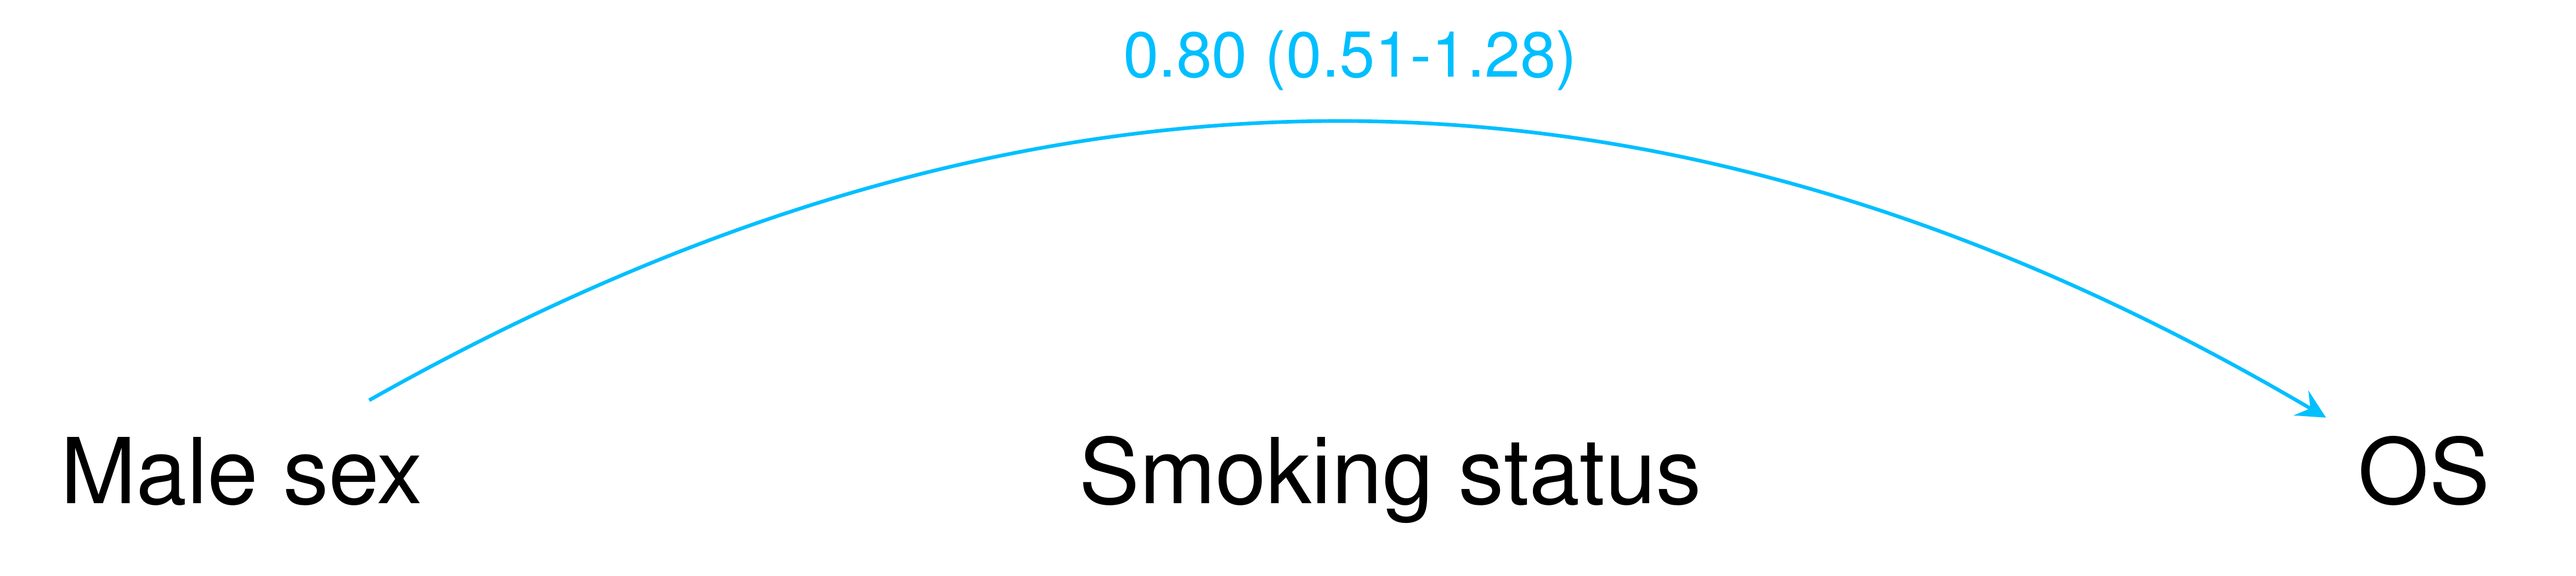
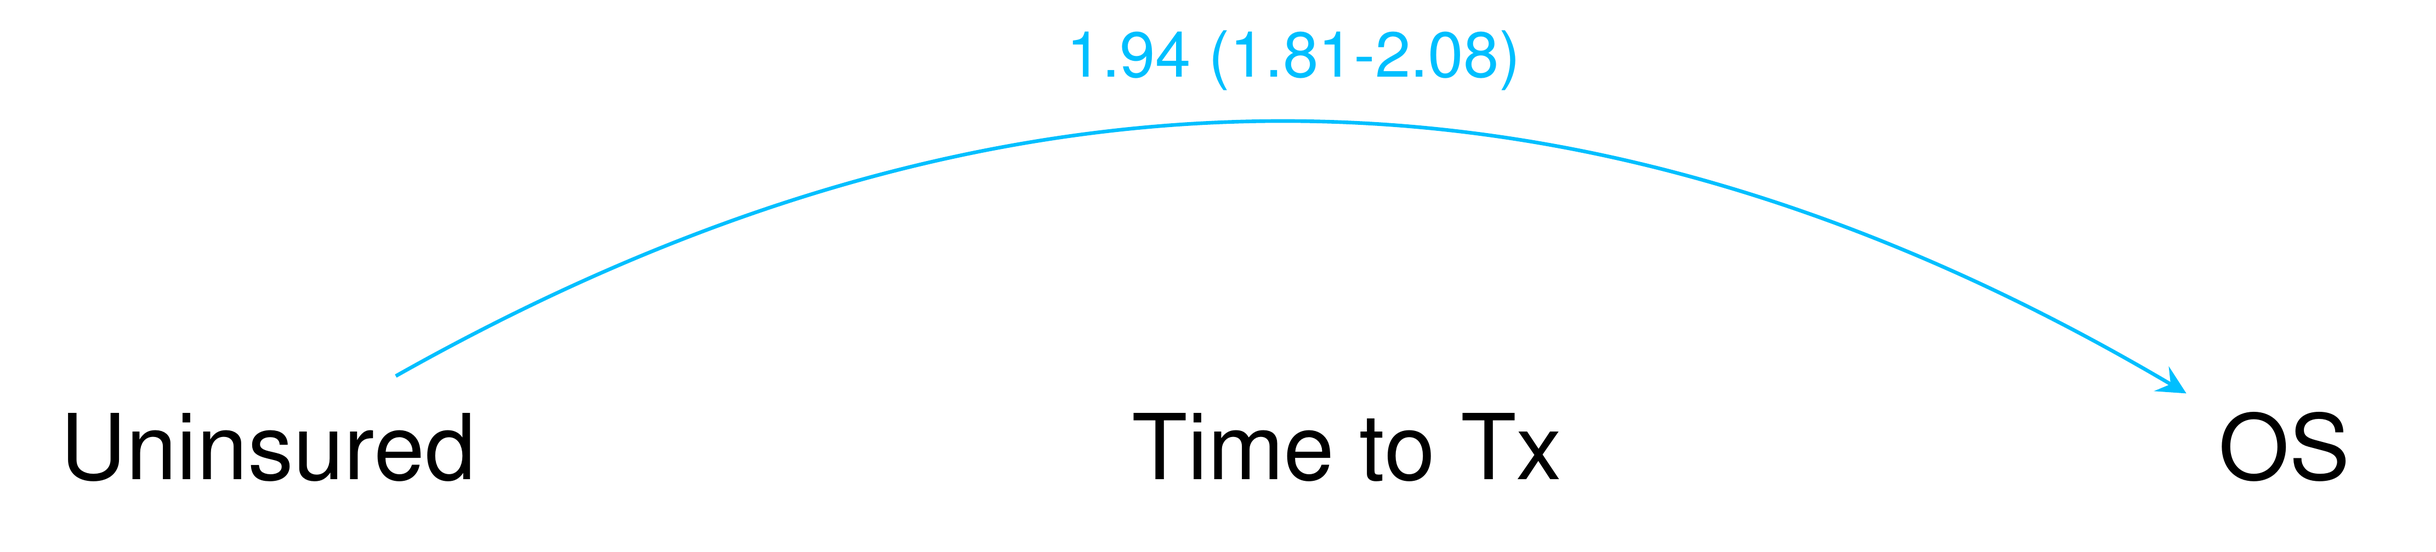
prostate example

diff --git a/index.html b/index.html
@@ -49,7 +49,7 @@ Causal relationship
 + Understanding the mechanics behind an association 
 + NOT prediction
     
-Estimate the direct and indirect effects 
+Goal of mediation analysis: Estimate the direct and indirect effects 
 
 .h-center[
 ![](figures/basic_example_dag.png)
@@ -66,13 +66,13 @@ Estimate the direct and indirect effects
 
 DAGs contain variables of interest and common causes
 
-Time ordered 
-
 Quickly assess assocations between variables 
 
 Rules for reading DAGs 
 + .accent-blue[ Modern Epidemiology - Chapter 12 ]
 + .accent-blue[ Causal Inference - https://www.hsph.harvard.edu/miguel-hernan/causal-inference-book/ ] 
+
+.footnote.pull-left[Tool for drawing DAGs: https://apps.gerkelab.com/shinyDAG/]
 
 ---
 
@@ -89,6 +89,10 @@ Criteria to be a mediator:
 + After controlling for the mediator, the previously significant relationship between the exposure and the outcome is no longer significant .accent-blue[ ( 😬 unless it partial mediaton) ]
 
 ---
+
+background-image: url(figures/bk_dag.png)
+background-size: 32%
+background-position: 95% 12%
 
 ## Baron and Kenny approach 
 
@@ -124,6 +128,10 @@ class: center middle methods-title
 &lt;/style&gt;
 
 ---
+
+background-image: url(figures/bk_dag.png)
+background-size: 32%
+background-position: 95% 12%
 
 ## Allowing exposure-mediator interactions
 
@@ -172,7 +180,7 @@ Total effect of A = NDE + NIE
 
 ---
 
-## Lets see the DAG 
+## Mediation or confounding ...
 
 .h-center[
 &lt;img src="figures/jama_dag.png"&gt;
@@ -185,6 +193,18 @@ JAMA ONCOLOGY
 Confounder: variables that are related to both the intervention and the outcome, but are not on the causal pathway
 Mediator: on the causal pathway
 "... we adjusted for cancer and treatment-related confounders ..."
+
+---
+
+background-image: url(figures/tear-emoji.png)
+background-size: 20%
+background-position: 50% 75%
+
+## Mediation or confounding ...
+
+.h-center[
+&lt;img src="figures/jama_screenshot_confounders.png"&gt;
+]
 
 ---
 
@@ -222,11 +242,12 @@ Default arguments
     
 ---
 
-## Is the effect of sex on overall survival mediated through smoking status in pancreatic cancer ...
+## Is the effect of being uninsured on overall survival mediated through time to treatment in prostate cancer ...
 
-+ Smoking is more prevalent in males than females 
-+ Males have higher incidence and death rates for pancreatic cancer than females
-+ Tobacco smoking the only established modifiable risk factor for pancreatic cancer
+Based on &gt; 500,000 prostate cancer cases in the National Cancer Data Base
++ Those who are uninsured have a longer average TTT than those who are insured
++ Being uninsured is associated with worse outcomes in prostate cancer
++ Longer TTT is protective towards overall survival in prostate cancer
 
 
 .h-center[
@@ -235,7 +256,7 @@ Default arguments
 
 ---
 
-## Is the effect of sex on overall survival mediated through smoking status in pancreatic cancer ...
+## Is the effect of being uninsured on overall survival mediated through time to treatment in prostate cancer ...
 
 
 ```r
@@ -243,26 +264,22 @@ library(mediator)
 library(tidyverse)
 library(survival)
 
-load("~/Documents/github/TCGAclinical/data/clinical_survival_pancancer_atlas.RData")
-
 dat %&gt;% 
-  filter(acronym == "PAAD") %&gt;% 
   # do some data cleaning here ...
-  mediator(out.model = coxph(Surv(OS.time,OS) ~ gender_binary + ever_smoker + 
-                             age_at_initial_pathologic_diagnosis + 
-                             histological_grade + gender_binary*ever_smoker,
-                           data = .),
-           med.model = glm(ever_smoker ~ gender_binary + 
-                           age_at_initial_pathologic_diagnosis + histological_grade,
-                           data = .,
-                           family = "binomial"),
-           treat = "gender_binary" )
+  mediator(out.model = coxph(Surv(DX_LASTCONTACT_DEATH_MONTHS, death) ~ 
+                               uninsured + delay_months +  PSA + cGleasonSum + AGE + racev2 + 
+                               (uninsured*delay_months), 
+                             data = .),
+                   med.model = glm(delay_months ~ uninsured + PSA + cGleasonSum + AGE + racev2, 
+                                   data = dat_clean),
+                   treat = "uninsured")
 ```
 
-.footnote.pull-left[Full code available at: https://github.com/GerkeLab/mediator/blob/master/man/bsp2020/abstract.Rmd]
+.footnote.pull-left[Full code available at: https://github.com/jhcreed/bsp2020-mediator]
+
 ---
 
-## Is the effect of sex on overall survival mediated through smoking status in pancreatic cancer ...
+## Is the effect of being uninsured on overall survival mediated through time to treatment in prostate cancer ...
 
 &lt;table class="table" style="width: auto !important; margin-left: auto; margin-right: auto;"&gt;
  &lt;thead&gt;
@@ -276,31 +293,31 @@ dat %&gt;%
 &lt;tbody&gt;
   &lt;tr&gt;
    &lt;td style="text-align:left;font-weight: bold;background-color: white !important;text-align: center;"&gt; CDE &lt;/td&gt;
-   &lt;td style="text-align:right;font-weight: bold;background-color: white !important;text-align: center;"&gt; 0.79142 &lt;/td&gt;
-   &lt;td style="text-align:left;font-weight: bold;background-color: white !important;text-align: center;"&gt; 0.39887 &lt;/td&gt;
-   &lt;td style="text-align:left;font-weight: bold;background-color: white !important;text-align: center;"&gt; 1.57028 &lt;/td&gt;
+   &lt;td style="text-align:right;font-weight: bold;background-color: white !important;text-align: center;"&gt; 1.96871 &lt;/td&gt;
+   &lt;td style="text-align:left;font-weight: bold;background-color: white !important;text-align: center;"&gt; 1.7797 &lt;/td&gt;
+   &lt;td style="text-align:left;font-weight: bold;background-color: white !important;text-align: center;"&gt; 2.17778 &lt;/td&gt;
   &lt;/tr&gt;
   &lt;tr&gt;
    &lt;td style="text-align:left;font-weight: bold;background-color: white !important;text-align: center;"&gt; NDE &lt;/td&gt;
-   &lt;td style="text-align:right;font-weight: bold;background-color: white !important;text-align: center;"&gt; 0.80390 &lt;/td&gt;
-   &lt;td style="text-align:left;font-weight: bold;background-color: white !important;text-align: center;"&gt; 0.50599 &lt;/td&gt;
-   &lt;td style="text-align:left;font-weight: bold;background-color: white !important;text-align: center;"&gt; 1.27721 &lt;/td&gt;
+   &lt;td style="text-align:right;font-weight: bold;background-color: white !important;text-align: center;"&gt; 1.94190 &lt;/td&gt;
+   &lt;td style="text-align:left;font-weight: bold;background-color: white !important;text-align: center;"&gt; 1.8135 &lt;/td&gt;
+   &lt;td style="text-align:left;font-weight: bold;background-color: white !important;text-align: center;"&gt; 2.07939 &lt;/td&gt;
   &lt;/tr&gt;
   &lt;tr&gt;
    &lt;td style="text-align:left;font-weight: bold;background-color: white !important;text-align: center;"&gt; NIE &lt;/td&gt;
-   &lt;td style="text-align:right;font-weight: bold;background-color: white !important;text-align: center;"&gt; 0.97569 &lt;/td&gt;
-   &lt;td style="text-align:left;font-weight: bold;background-color: white !important;text-align: center;"&gt; 0.87098 &lt;/td&gt;
-   &lt;td style="text-align:left;font-weight: bold;background-color: white !important;text-align: center;"&gt; 1.09298 &lt;/td&gt;
+   &lt;td style="text-align:right;font-weight: bold;background-color: white !important;text-align: center;"&gt; 0.98742 &lt;/td&gt;
+   &lt;td style="text-align:left;font-weight: bold;background-color: white !important;text-align: center;"&gt; 0.97955 &lt;/td&gt;
+   &lt;td style="text-align:left;font-weight: bold;background-color: white !important;text-align: center;"&gt; 0.99535 &lt;/td&gt;
   &lt;/tr&gt;
   &lt;tr&gt;
    &lt;td style="text-align:left;font-weight: bold;background-color: white !important;text-align: center;"&gt; Total Effect &lt;/td&gt;
-   &lt;td style="text-align:right;font-weight: bold;background-color: white !important;text-align: center;"&gt; 0.78436 &lt;/td&gt;
-   &lt;td style="text-align:left;font-weight: bold;background-color: white !important;text-align: center;"&gt; 0.5008 &lt;/td&gt;
-   &lt;td style="text-align:left;font-weight: bold;background-color: white !important;text-align: center;"&gt; 1.22848 &lt;/td&gt;
+   &lt;td style="text-align:right;font-weight: bold;background-color: white !important;text-align: center;"&gt; 1.91747 &lt;/td&gt;
+   &lt;td style="text-align:left;font-weight: bold;background-color: white !important;text-align: center;"&gt; 1.78941 &lt;/td&gt;
+   &lt;td style="text-align:left;font-weight: bold;background-color: white !important;text-align: center;"&gt; 2.05469 &lt;/td&gt;
   &lt;/tr&gt;
   &lt;tr&gt;
    &lt;td style="text-align:left;font-weight: bold;background-color: white !important;text-align: center;"&gt; Proportion Mediated &lt;/td&gt;
-   &lt;td style="text-align:right;font-weight: bold;background-color: white !important;text-align: center;"&gt; 0.09064 &lt;/td&gt;
+   &lt;td style="text-align:right;font-weight: bold;background-color: white !important;text-align: center;"&gt; -0.02663 &lt;/td&gt;
    &lt;td style="text-align:left;font-weight: bold;background-color: white !important;text-align: center;"&gt;  &lt;/td&gt;
    &lt;td style="text-align:left;font-weight: bold;background-color: white !important;text-align: center;"&gt;  &lt;/td&gt;
   &lt;/tr&gt;
@@ -310,17 +327,17 @@ dat %&gt;%
 &lt;br&gt;
 
 👉 The number of potential estimates for the CDE is equal to the number of levels that the mediator can take  
-+ CDE of male sex compared to female sex when forcing smoking status as never smokers is 0.79
-+ CDE of male sex compared to female sex when forcing smoking status as previous or current smoker is 0.82
++ CDE of being uninsured compared to insured when forcing TTT as 0 months is 1.97
++ CDE of being uninsured compared to insured when forcing TTT as 6 months is 1.90
 
-.footnote.pull-left[Full code available at: https://github.com/GerkeLab/mediator/blob/master/man/bsp2020/abstract.Rmd]
+.footnote.pull-left[Full code available at: https://github.com/jhcreed/bsp2020-mediator]
 
 ---
 
-## Is the effect of sex on overall survival mediated through smoking status in pancreatic cancer ...
+## Is the effect of being uninsured on overall survival mediated through time to treatment in prostate cancer ...
 
-NDE:  the effect of the exposure (male sex) on the outcome (overall survival) if the pathway from the exposure to the mediator (smoking status) was removed
-+ HR for male sex compared to female sex, when each individuals level of smoking is kept at the level it would take in the absence of sex, is 0.80 (0.51-1.28)
+NDE:  the effect of the exposure (uninsured) on the outcome (overall survival) if the pathway from the exposure to the mediator (time to treatment) was removed
++ HR for beinf uninsured compared to insured, when each individuals level of TTT is kept at the level it would take in the absence of insurance status, is 1.94 (1.81-2.08)
 
 &lt;br&gt;
 
@@ -331,10 +348,10 @@ NDE:  the effect of the exposure (male sex) on the outcome (overall survival) if
 
 ---
 
-## Is the effect of sex on overall survival mediated through smoking status in pancreatic cancer ...
+## Is the effect of being uninsured on overall survival mediated through time to treatment in prostate cancer ...
 
-NIE: the effect of the exposure (male sex) that operates by changing the mediator (smoking status)
-+ HR for male sex, if smoking status was changed from the level it would take if sex was female to the level if sex was male, is 0.98 (0.87-1.09)
+NIE: the effect of the exposure (uninsured) that operates by changing the mediator (time to treatment)
++ HR for being uninsured, if TTT was changed from the level it would take if insurance status was insured to the level if insurance status was uninsured, is 0.99 (0.98-1.00)
 
 
 &lt;br&gt;
@@ -346,10 +363,10 @@ NIE: the effect of the exposure (male sex) that operates by changing the mediato
 
 ---
 
-## Is the effect of sex on overall survival mediated through smoking status in pancreatic cancer ...
+## Is the effect of being uninsured on overall survival mediated through time to treatment in prostate cancer ...
 
-TE:  the overall effect of the exposure (male sex) on the outcome (overall survival)
-+ HR for male sex compared to female sex overall is 0.78 (0.50-1.23)
+TE:  the overall effect of the exposure (uninsured) on the outcome (overall survival)
++ HR for uninsured compared to insured, overall, is 1.92 (1.79-2.05)
 
 &lt;br&gt;
 
@@ -467,6 +484,10 @@ R packages are more than just a bundle of code : tests, data, documentation, ...
 .h-center {
   margin: 0 auto;
 }
+.top-0    { top:    0; }
+.right-0  { right:  0; }
+.bottom-0 { bottom: 0; }
+.left-0   { left:   0; }
 
 # colors
 
